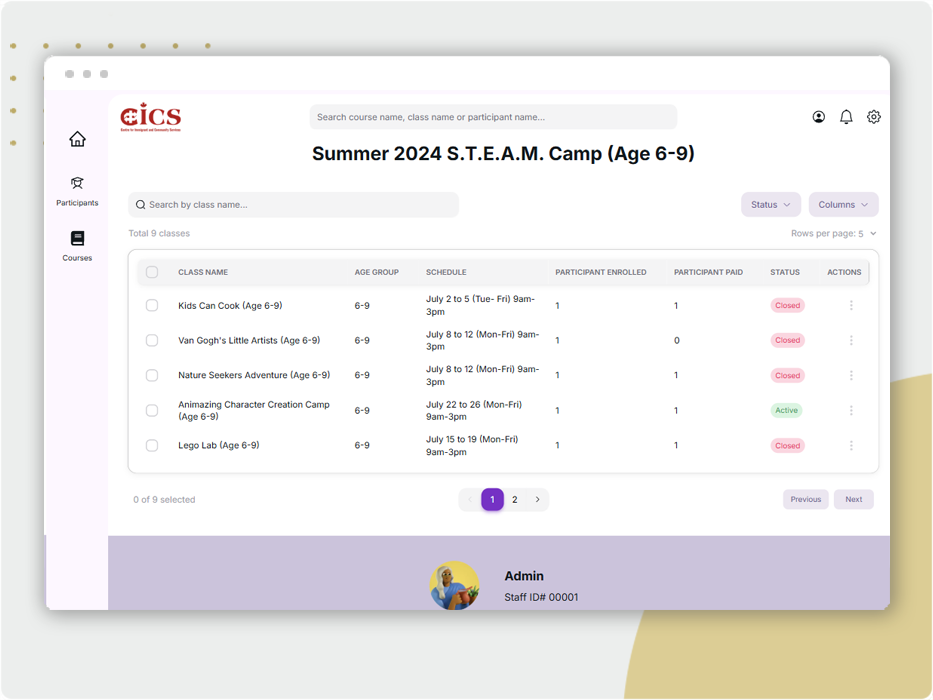
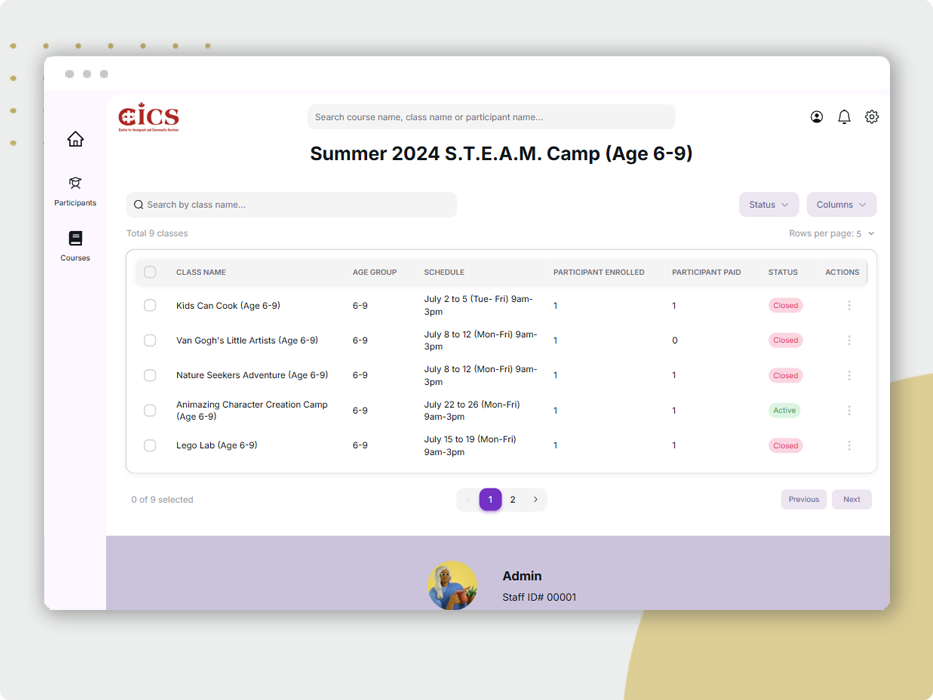
chore:update screenshots

diff --git a/README.md b/README.md
@@ -2,9 +2,9 @@
 
 The Learning Centre Dashboard is a comprehensive, responsive web application designed for educational institutions. It streamlines the management of courses, classes, and participant details while providing an intuitive view of participant enrollment across different classes.
 
-## Live Demo
+<img src="./screenshots/dashboard-preview.png" alt="Screenshoot of the dashboard main page" />
 
-<img src="./screenshots/desktop-screenshot.jpg" alt="Desktop screenshot of Social Links Profile" />
+## Live Demo
 
 - Live Site URL: [click here](https://learning-centre-dashboard.vercel.app/)
 
